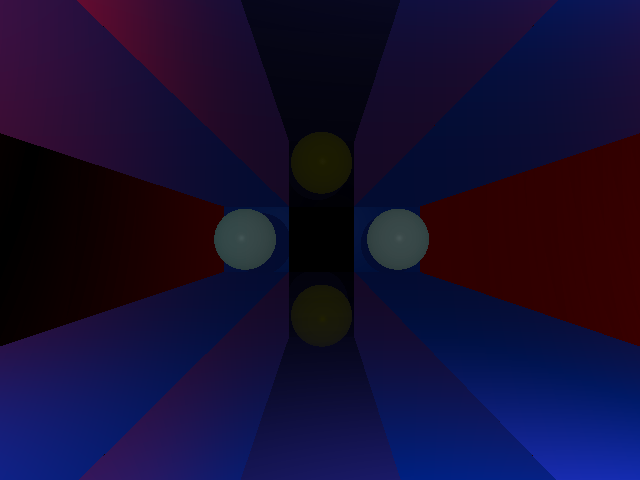
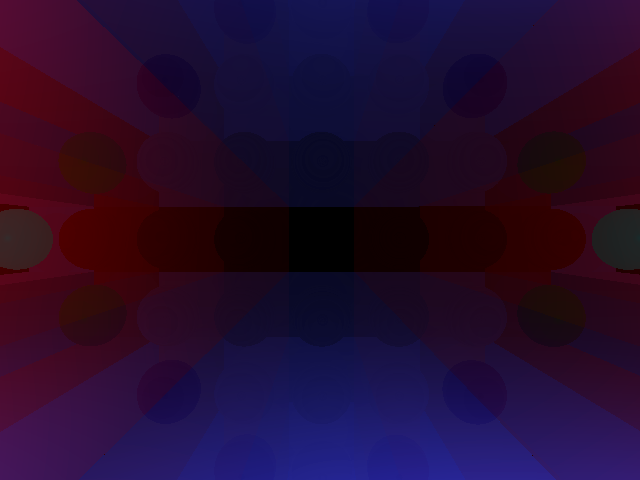
Debug Test 25

diff --git a/reflective_shader.cpp b/reflective_shader.cpp
@@ -9,10 +9,10 @@ Shade_Surface(const Ray& ray,const vec3& intersection_point,
     vec3 color;
 
     if(recursion_depth > world.recursion_depth_limit) {
-	color = shader->Shade_Surface(ray,intersection_point,normal,recursion_depth);
+	color = vec3(0,0,0);
     }
     else {
-	//color = shader->Shade_Surface(ray,intersection_point,normal,recursion_depth);
+	color = shader->Shade_Surface(ray,intersection_point,normal,recursion_depth);
         vec3 view_ray = ray.endpoint - intersection_point;
         Ray reflected_ray(intersection_point, (2 * dot(view_ray,normal) * normal - view_ray).normalized());
 	color = (1 - reflectivity) * color + reflectivity * world.Cast_Ray(reflected_ray,recursion_depth+1);
